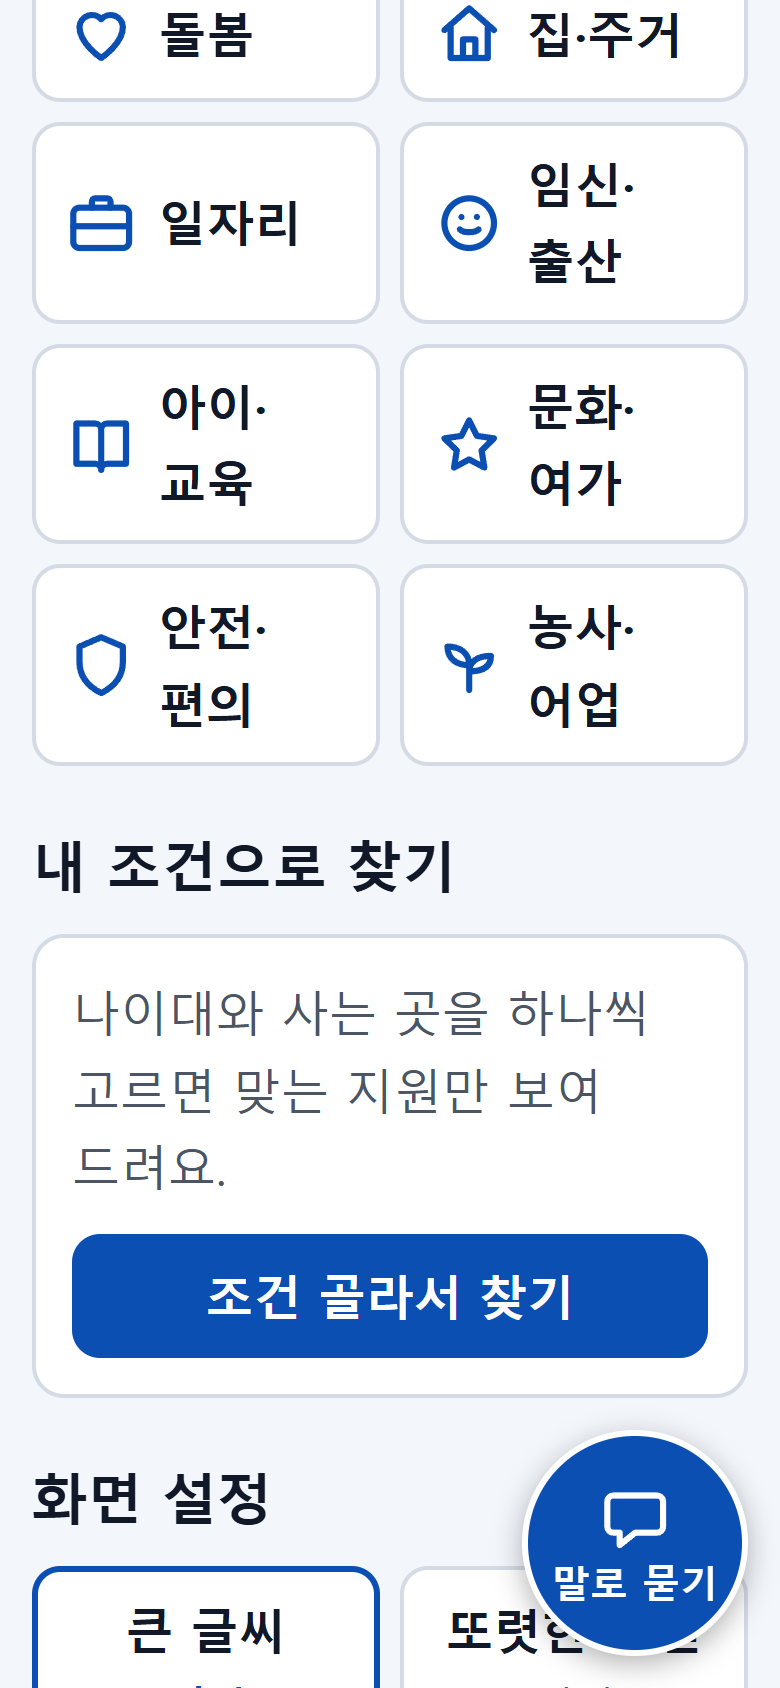
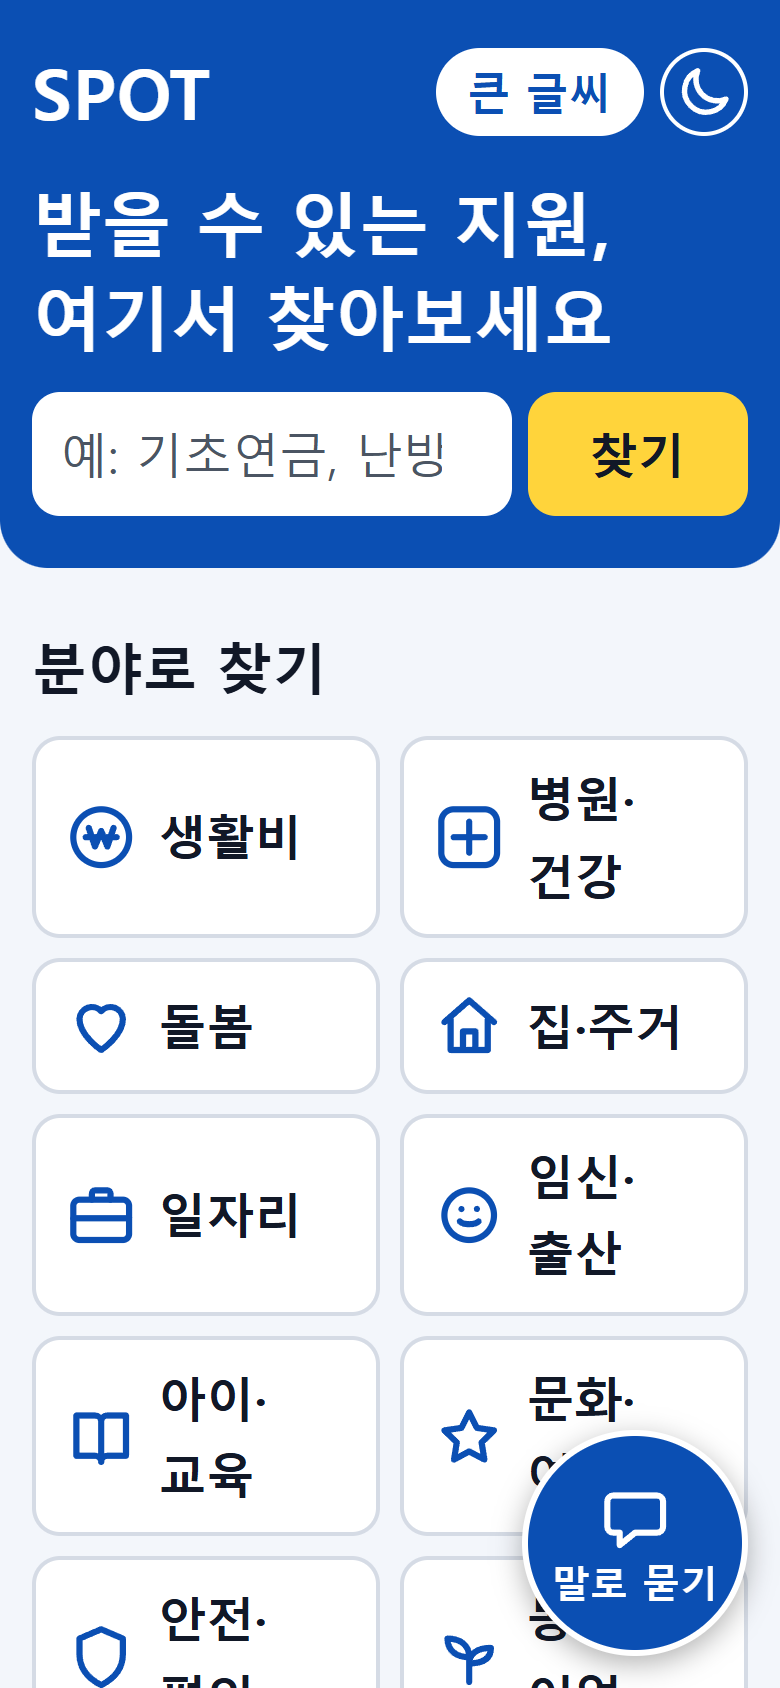
화면 설정을 시작 화면 위쪽으로 이동, 또렷한 화면 버튼을 달 모양 그림으로 변경

diff --git a/web/index.html b/web/index.html
@@ -17,11 +17,13 @@
     <header class="hero">
       <div class="hero-top">
         <p class="brand">SPOT</p>
-        <!-- 휴대폰에서는 아래 설정으로 가는 링크, 컴퓨터에서는 바로 누르는 전환 버튼을 보여 준다 -->
-        <a class="hero-pill hero-link" href="#settings">화면 설정</a>
+        <!-- 화면 설정: 큰 글씨, 또렷한 화면(어두운 바탕에 밝은 글씨) -->
         <div class="hero-toggles">
-          <button type="button" class="hero-pill" data-setting="big">큰 글씨 <span class="state">꺼짐</span></button>
-          <button type="button" class="hero-pill" data-setting="contrast">또렷한 화면 <span class="state">꺼짐</span></button>
+          <button type="button" class="hero-pill" data-setting="big">큰 글씨<span class="state sr-only">꺼짐</span></button>
+          <button type="button" class="hero-pill icon" data-setting="contrast" aria-label="또렷한 화면" title="또렷한 화면">
+            <svg aria-hidden="true" viewBox="0 0 24 24"><path d="M20 14.5A8 8 0 0 1 9.5 4a8 8 0 1 0 10.5 10.5z"/></svg>
+            <span class="state sr-only">꺼짐</span>
+          </button>
         </div>
       </div>
       <h1>받을 수 있는 지원,<br> 여기서 찾아보세요</h1>
@@ -51,14 +53,6 @@
       <div class="panel">
         <p>나이대와 사는 곳을 하나씩 고르면 맞는 지원만 보여 드려요.</p>
         <a class="btn btn-primary" href="search.html">조건 골라서 찾기</a>
-      </div>
-
-      <div class="settings-block">
-        <h2 class="home-title" id="settings">화면 설정</h2>
-        <div class="row">
-          <button type="button" class="btn toggle" data-setting="big">큰 글씨 <span class="state">꺼짐</span></button>
-          <button type="button" class="btn toggle" data-setting="contrast">또렷한 화면 <span class="state">꺼짐</span></button>
-        </div>
       </div>
     </main>
 

diff --git a/web/css/style.css b/web/css/style.css
@@ -145,7 +145,11 @@ p { margin: 0 0 10px; }
 .hero-pill[aria-pressed="true"] { background: var(--primary-text); color: var(--primary); }
 /* 아래쪽의 "또렷한 화면 링크 색" 규칙보다 우선하게 :not(.btn) 을 붙인다 */
 html[data-contrast="1"] a.hero-pill:not(.btn) { color: var(--primary-text); }
-.hero-toggles { display: none; gap: 10px; }   /* 컴퓨터 화면에서만 보인다 */
+.hero-toggles { display: flex; gap: 8px; }
+/* 그림만 있는 둥근 버튼 (또렷한 화면). 이름은 aria-label 로 읽어 준다 */
+.hero-pill.icon { justify-content: center; width: 44px; padding: 0; }
+.hero-pill.icon svg { width: 1.35rem; height: 1.35rem; fill: none; stroke: currentColor; stroke-width: 2; stroke-linecap: round; stroke-linejoin: round; }
+.hero-pill.icon[aria-pressed="true"] svg { fill: currentColor; }
 .hero .search-form input { border-color: var(--surface); }
 .hero .search-form .btn { border-color: var(--hero-btn-bg); background: var(--hero-btn-bg); color: var(--hero-btn-text); font-weight: 800; }
 
@@ -452,9 +456,7 @@ html[data-contrast="1"] a:not(.btn) { color: #ffe600; }
   .hero h1 br { display: none; }
   .hero .search-form { width: 100%; max-width: 720px; margin: 0 auto; }
   .hero .search-form .btn { min-width: 6.5rem; }
-  .hero-link { display: none; }
-  .hero-toggles { display: flex; }
-  .settings-block { display: none; }           /* 화면 설정은 위쪽 띠에 있다 */
+  .hero-toggles { gap: 10px; }
 
   .tiles { grid-template-columns: repeat(5, minmax(0, 1fr)); gap: 14px; }
   .tile { flex-direction: column; align-items: flex-start; justify-content: center; gap: 12px; padding: 18px; }

diff --git a/web/js/settings.js b/web/js/settings.js
@@ -45,7 +45,8 @@
       buttons.forEach((button) => {
         const on = root.hasAttribute("data-" + button.getAttribute("data-setting"));
         button.setAttribute("aria-pressed", on ? "true" : "false");
-        button.querySelector(".state").textContent = on ? "켜짐" : "꺼짐";
+        const state = button.querySelector(".state");
+        if (state) state.textContent = on ? "켜짐" : "꺼짐";
       });
     };
     buttons.forEach((button) => {

diff --git a/web/service-worker.js b/web/service-worker.js
@@ -1,6 +1,6 @@
 // SPOT 서비스 워커: 화면 파일(HTML·CSS·JS·아이콘)만 캐시한다. API 응답은 캐시하지 않는다.
 // 화면 파일을 고쳐서 다시 배포할 때는 아래 버전 숫자를 올린다 (옛 캐시가 지워진다).
-const CACHE = "spot-v6";
+const CACHE = "spot-v7";
 
 const SCREEN_FILES = [
   "./",

diff --git a/PROJECT_SPEC.md b/PROJECT_SPEC.md
@@ -489,7 +489,7 @@ LIMIT 8;
 ### 화면 목록
 | 화면 | 파일 | 내용 |
 |---|---|---|
-| 시작 | `index.html` | 이름·낱말 검색창, 분야 버튼 10개, [👆 조건 골라서 찾기], 큰 글씨·또렷한 화면 전환 버튼, 서비스 안내 한 줄 |
+| 시작 | `index.html` | 위쪽 띠에 큰 글씨·또렷한 화면 전환 버튼과 이름·낱말 검색창, 그 아래 분야 버튼 10개, [조건 골라서 찾기], 서비스 안내 한 줄 |
 | 직접 찾기 | `search.html` | 분야("어떤 도움을 찾으세요?") → 나이대 → 성별 → 시·도 → 시·군·구 → 가구 형태를 한 단계씩 고르기. 분야는 [모든 분야에서 찾기]로 건너뛸 수 있고, 결과 화면에서 이미 분야를 골랐으면 이 단계는 건너뛴다. 결과 화면 위쪽에 검색창과 분야 고르기를 두어 결과를 좁힌다. [내 조건 고르기 / 조건 다시 고르기] 버튼, 결과 카드 목록 |
 | 채팅 | `chat.html` | 말풍선 대화, 되묻기 버튼, 결과 정책 카드, 입력창, 예시 질문 버튼 3개. [← 뒤로]는 보던 화면으로 돌아간다 |
 | 정책 상세 | `policy.html?id=...` | 지원 대상, 지원 내용, 신청 방법, 문의처(전화는 `tel:` 링크), 원문 링크, 데이터 기준일 |
@@ -497,14 +497,15 @@ LIMIT 8;
 
 ### 디자인 (2026-11-15, 시안 세 가지 중 "A. 또렷한 파랑"으로 정함)
 - 색: 파랑 `#0b4fb3`(강조), 옅은 파랑 바탕 `#f3f6fb`, 흰 상자, 파란 띠 위의 찾기 버튼만 노랑 `#ffd43b`. 색은 모두 `style.css` 맨 위의 변수로 둔다.
-- 시작 화면 위쪽은 아래 모서리가 둥근 파란 띠다. 서비스 이름, [화면 설정](아래 설정으로 이동), 큰 제목, 검색창이 들어간다.
+- 시작 화면 위쪽은 아래 모서리가 둥근 파란 띠다. 서비스 이름, 화면 설정 버튼 두 개, 큰 제목, 검색창이 들어간다.
+- 화면 설정은 띠의 오른쪽 위에 둔다: [큰 글씨] 버튼과, 달 모양 그림만 있는 둥근 [또렷한 화면] 버튼. 켜지면 버튼 색이 반대로 바뀐다. 달 버튼은 "아이콘만 있는 버튼 금지" 규칙의 예외이고(사용자 요청), 화면 읽어 주는 프로그램을 위해 `aria-label="또렷한 화면"`을 붙인다. 설정은 다른 화면으로 가도 유지된다.
 - 분야 버튼은 선으로 그린 그림 + 이름이다. 그림은 HTML 안의 SVG로 넣고(그림 파일·바깥 글꼴을 받지 않는다), 색은 글자색 변수를 따른다.
 - 글꼴은 기기에 있는 것을 쓴다 (바깥 글꼴을 받으면 느린 휴대폰에서 화면이 늦게 뜬다).
 - 또렷한 화면에서는 파란 띠가 노랑 바탕·검정 글자로, 찾기 버튼이 검정으로 바뀐다.
 
 ### 컴퓨터 화면 (2026-11-15 추가)
 - 주소와 코드는 휴대폰과 같다. 화면 폭이 **900px 이상**이면 `style.css` 맨 아래의 규칙으로 배치만 넓게 바꾼다. 휴대폰 배치가 기본이다.
-- 시작 화면: 파란 띠가 화면 양 끝까지 가고 제목·검색창이 가운데에 온다. [화면 설정] 링크 대신 [큰 글씨] [또렷한 화면] 전환 버튼이 띠 안에 보인다 (아래쪽 화면 설정은 숨긴다). 분야 버튼은 한 줄에 5개, 그림이 위·이름이 아래다.
+- 시작 화면: 파란 띠가 화면 양 끝까지 가고 제목·검색창이 가운데에 온다. 분야 버튼은 한 줄에 5개, 그림이 위·이름이 아래다.
 - 결과 화면: 왼쪽 칸(폭 300px)에 검색창, 분야 목록(펼침 목록 대신 11줄을 모두 늘어놓음), 고른 조건, [조건 다시 고르기]. 오른쪽에 카드를 2~3개씩 나란히 둔다.
 - 조건 고르기, 정책 상세, 공유 화면은 휴대폰과 같은 배치로 가운데에 폭 640px로 둔다.
 - [말로 묻기]를 누르면 채팅 화면으로 옮겨 가지 않고, 보던 화면 오른쪽 아래에 작은 채팅 창(폭 400px)이 뜬다 (`js/fab.js`). 창 안에는 `chat.html`을 그대로 넣는다(iframe). 이때 채팅 화면은 위쪽 이동 버튼을 숨기고, 카드의 링크는 창 안이 아니라 전체 화면에서 연다. [닫기]로 닫아도 그 화면을 떠나기 전까지는 대화가 남아 있다.

diff --git a/docs/user_test.md b/docs/user_test.md
@@ -33,7 +33,7 @@
 | 4 | [처음으로]로 가서, 들어 본 지원 이름을 검색창에 적어 찾아본다. (떠오르지 않으면 "기초연금") | 글자를 입력할 수 있는가, 찾던 것이 위쪽에 나오는가 |
 | 5 | 오른쪽 아래 [말로 묻기] 버튼을 눌러, 요즘 걱정되는 일을 평소 말투로 물어본다. (떠오르지 않으면 예시 질문 버튼을 누른다) | 버튼을 알아보는가, 되묻는 버튼을 고르는가, 답을 이해하는가 |
 | 6 | 채팅 결과 아래의 [가족에게 공유]를 눌러 본다. | 공유가 되는가 |
-| 7 | (글씨가 작다고 하면) 시작 화면의 큰 글씨 버튼을 안내한다. | 켠 뒤에 읽기 편해졌는가 |
+| 7 | (글씨가 작다고 하면) 시작 화면 오른쪽 위의 [큰 글씨] 버튼을 안내한다. | 켠 뒤에 읽기 편해졌는가 |
 | 8 | 설문지를 작성한다. | — |
 
 ### 관찰 기록 (진행자가 참가자마다 적는다)

diff --git a/README.md b/README.md
@@ -135,7 +135,7 @@ python scripts/load_regions.py
 - 안드로이드(Chrome): 사이트를 열고 오른쪽 위 메뉴(⋮) → **홈 화면에 추가** (또는 **앱 설치**)
 - 아이폰(Safari): 아래 공유 버튼 → **홈 화면에 추가**
 
-화면 파일(`web/`)을 고쳐서 다시 배포할 때는 `web/service-worker.js` 맨 위의 `spot-v6` 숫자를 올립니다.
+화면 파일(`web/`)을 고쳐서 다시 배포할 때는 `web/service-worker.js` 맨 위의 `spot-v7` 숫자를 올립니다.
 화면은 항상 새 것을 먼저 받아 오므로 올리지 않아도 동작하지만, 숫자를 올리면 휴대폰에 남은 옛 캐시가 지워집니다.
 
 ## 검색 평가
